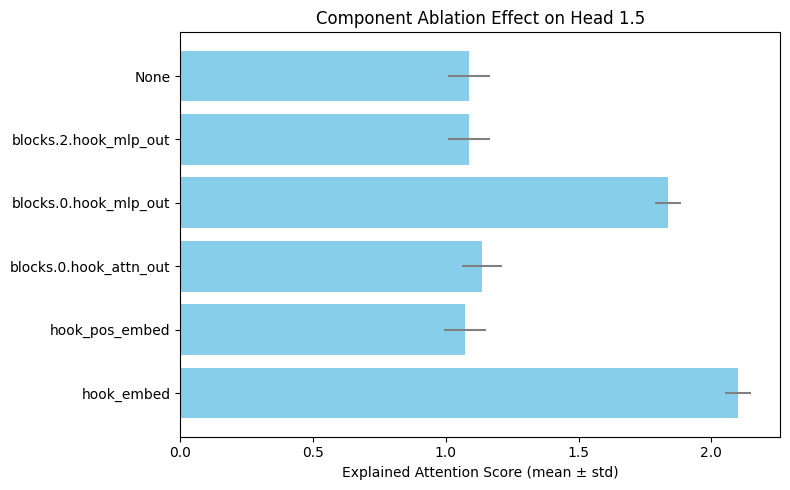
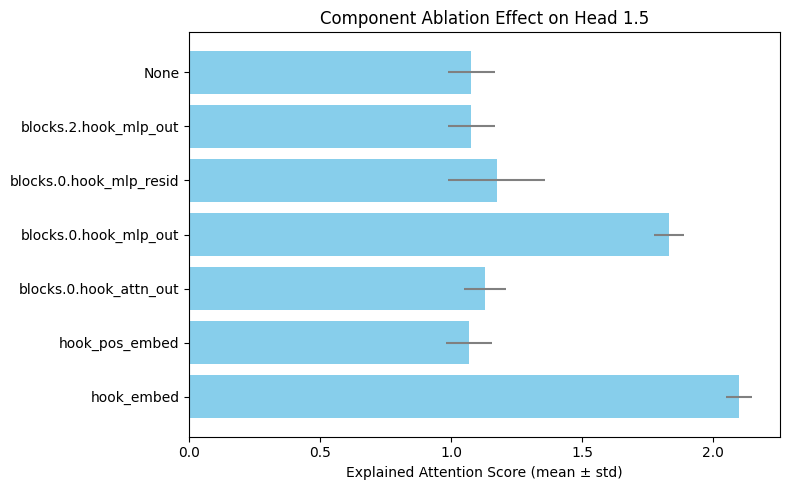
Experiment: ablate also residual stream

diff --git a/semantic_head.py b/semantic_head.py
@@ -1,4 +1,5 @@
 # %%
+from typing import Callable
 from matplotlib import pyplot as plt
 import torch
 import numpy as np
@@ -221,10 +222,11 @@ def explained_attn_score_metric(
     cache: ActivationCache,
     pred_attn
 ):
-    attn = cache["pattern", LAYER]
+    attn = cache["blocks.1.attn.hook_pattern"]
     score = explained_attn_score(attn, pred_attn)
     return score[...,HEAD_IDX]
 
+import torch.nn as nn
 
 @torch.inference_mode()
 def ablate_metric(
@@ -244,17 +246,37 @@ def ablate_metric(
         'hook_pos_embed',
         'blocks.0.hook_attn_out',
         'blocks.0.hook_mlp_out',
+        'blocks.0.hook_mlp_resid',
         'blocks.2.hook_mlp_out',
         'None'
     ]
     results = dict()
+    out_hook = "blocks.1.attn.hook_pattern"
+    
+    # Hook function to cache activations
+    def cache_hook(activation, hook):
+        cache[hook.name] = activation
 
     for component in tqdm(components):
         model.reset_hooks()
-        if component != 'None':
-            model.add_hook(component, ablate_component, level=1)
-        _, cache = model.run_with_cache(batch,
-            names_filter="blocks.1.attn.hook_pattern")
+        cache = dict()
+        
+        hooks : list[tuple[str,Callable]] = [(out_hook, cache_hook)]
+        
+        match component:
+            case 'None':
+                pass
+            case 'blocks.0.hook_mlp_resid':
+                replace_hk = lambda x,hook: cache['blocks.0.hook_mlp_out']
+                hooks += [
+                    ('blocks.0.hook_mlp_out', cache_hook),
+                    ('blocks.0.hook_resid_post', replace_hk)
+                ]
+            case _:
+                hooks.append((component, ablate_component))
+            
+        model.run_with_hooks(batch,
+            fwd_hooks=hooks)
         
         res = metric(cache)
         results[component] = (res.mean().item(), res.std().item())
